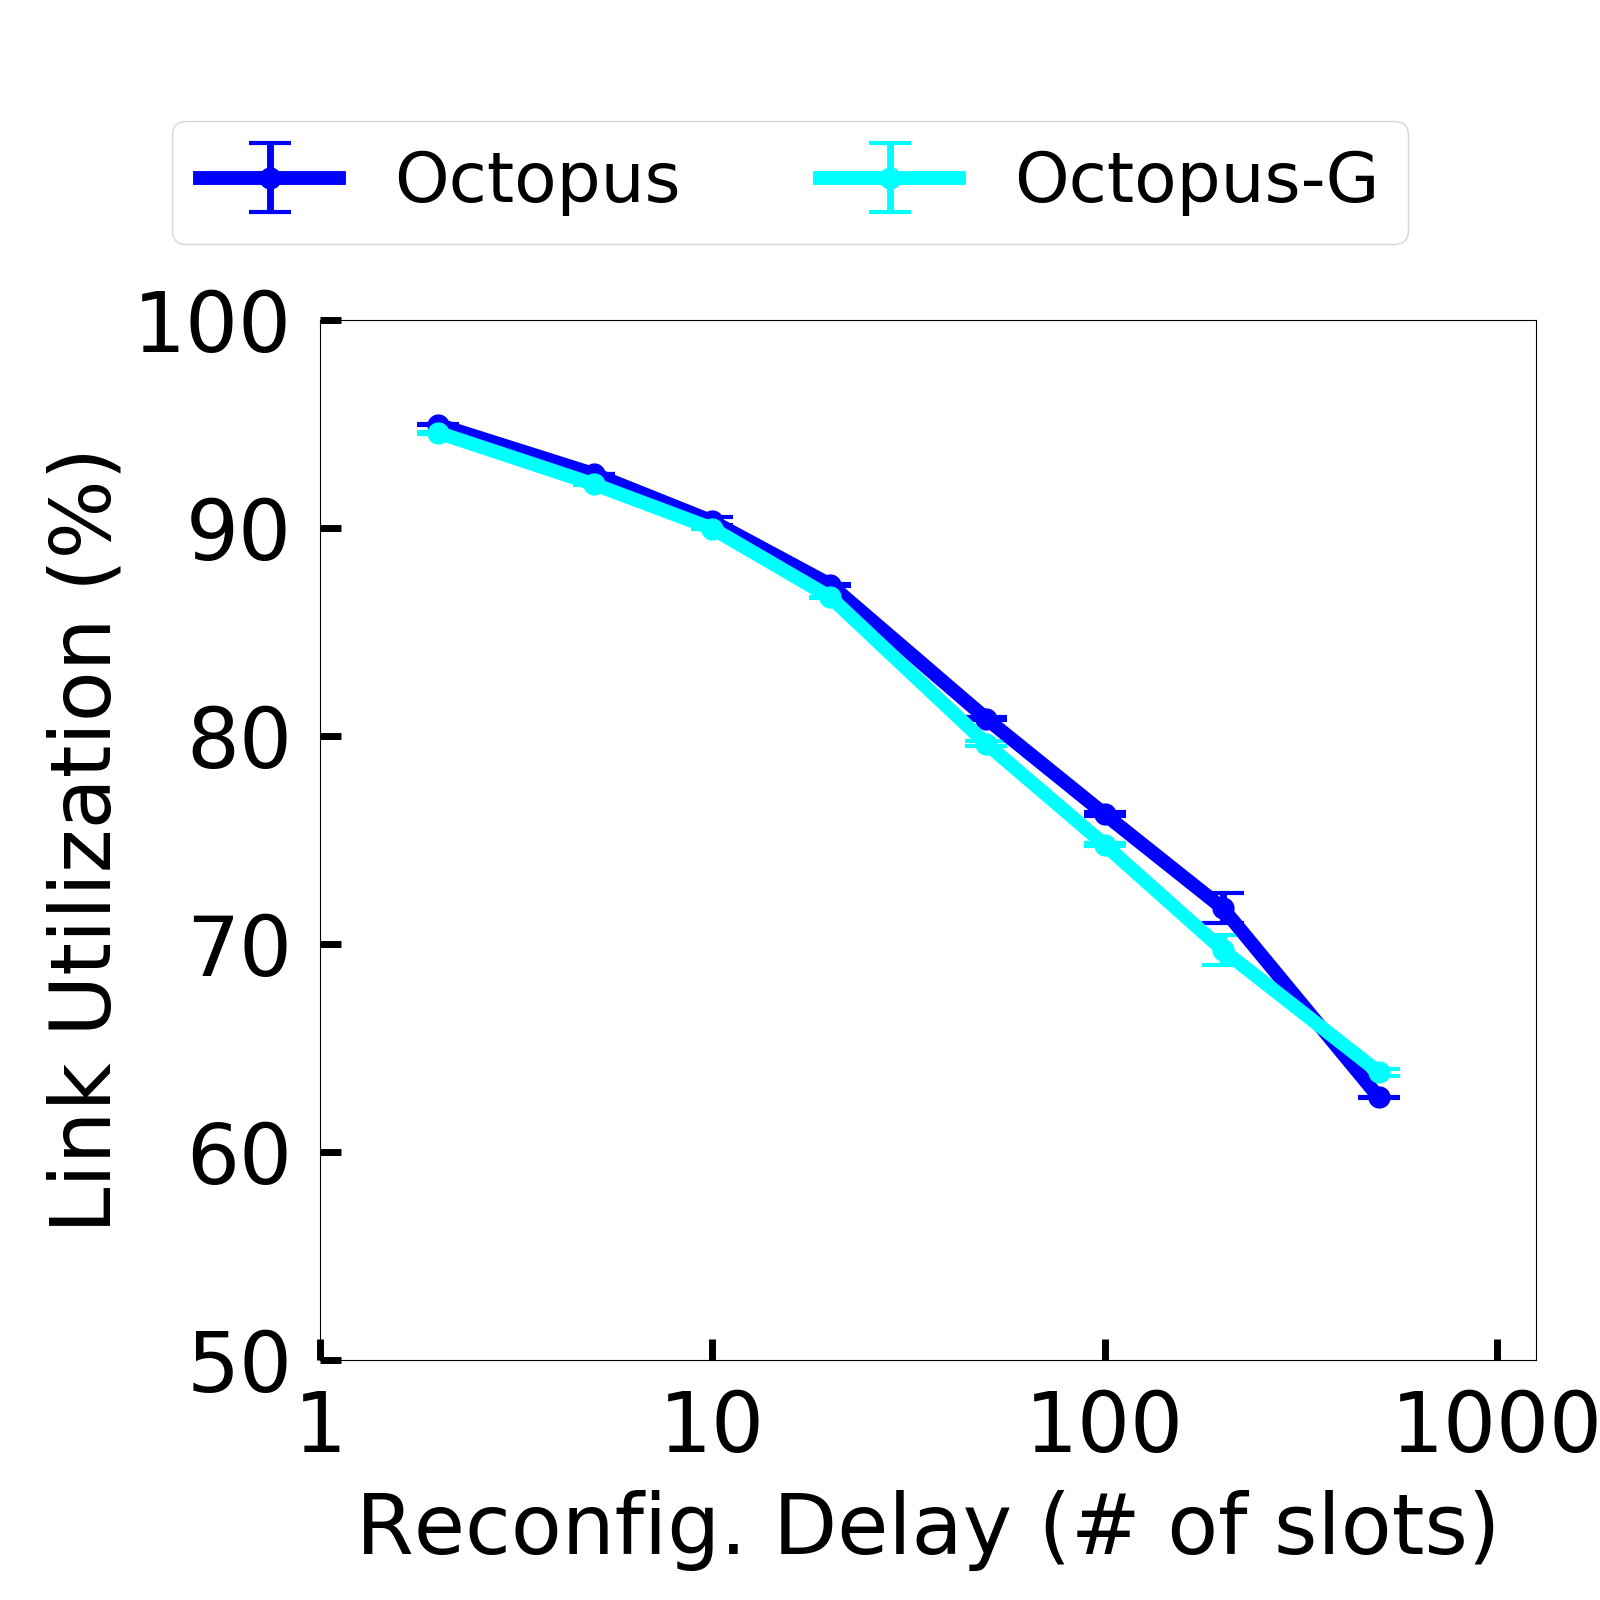
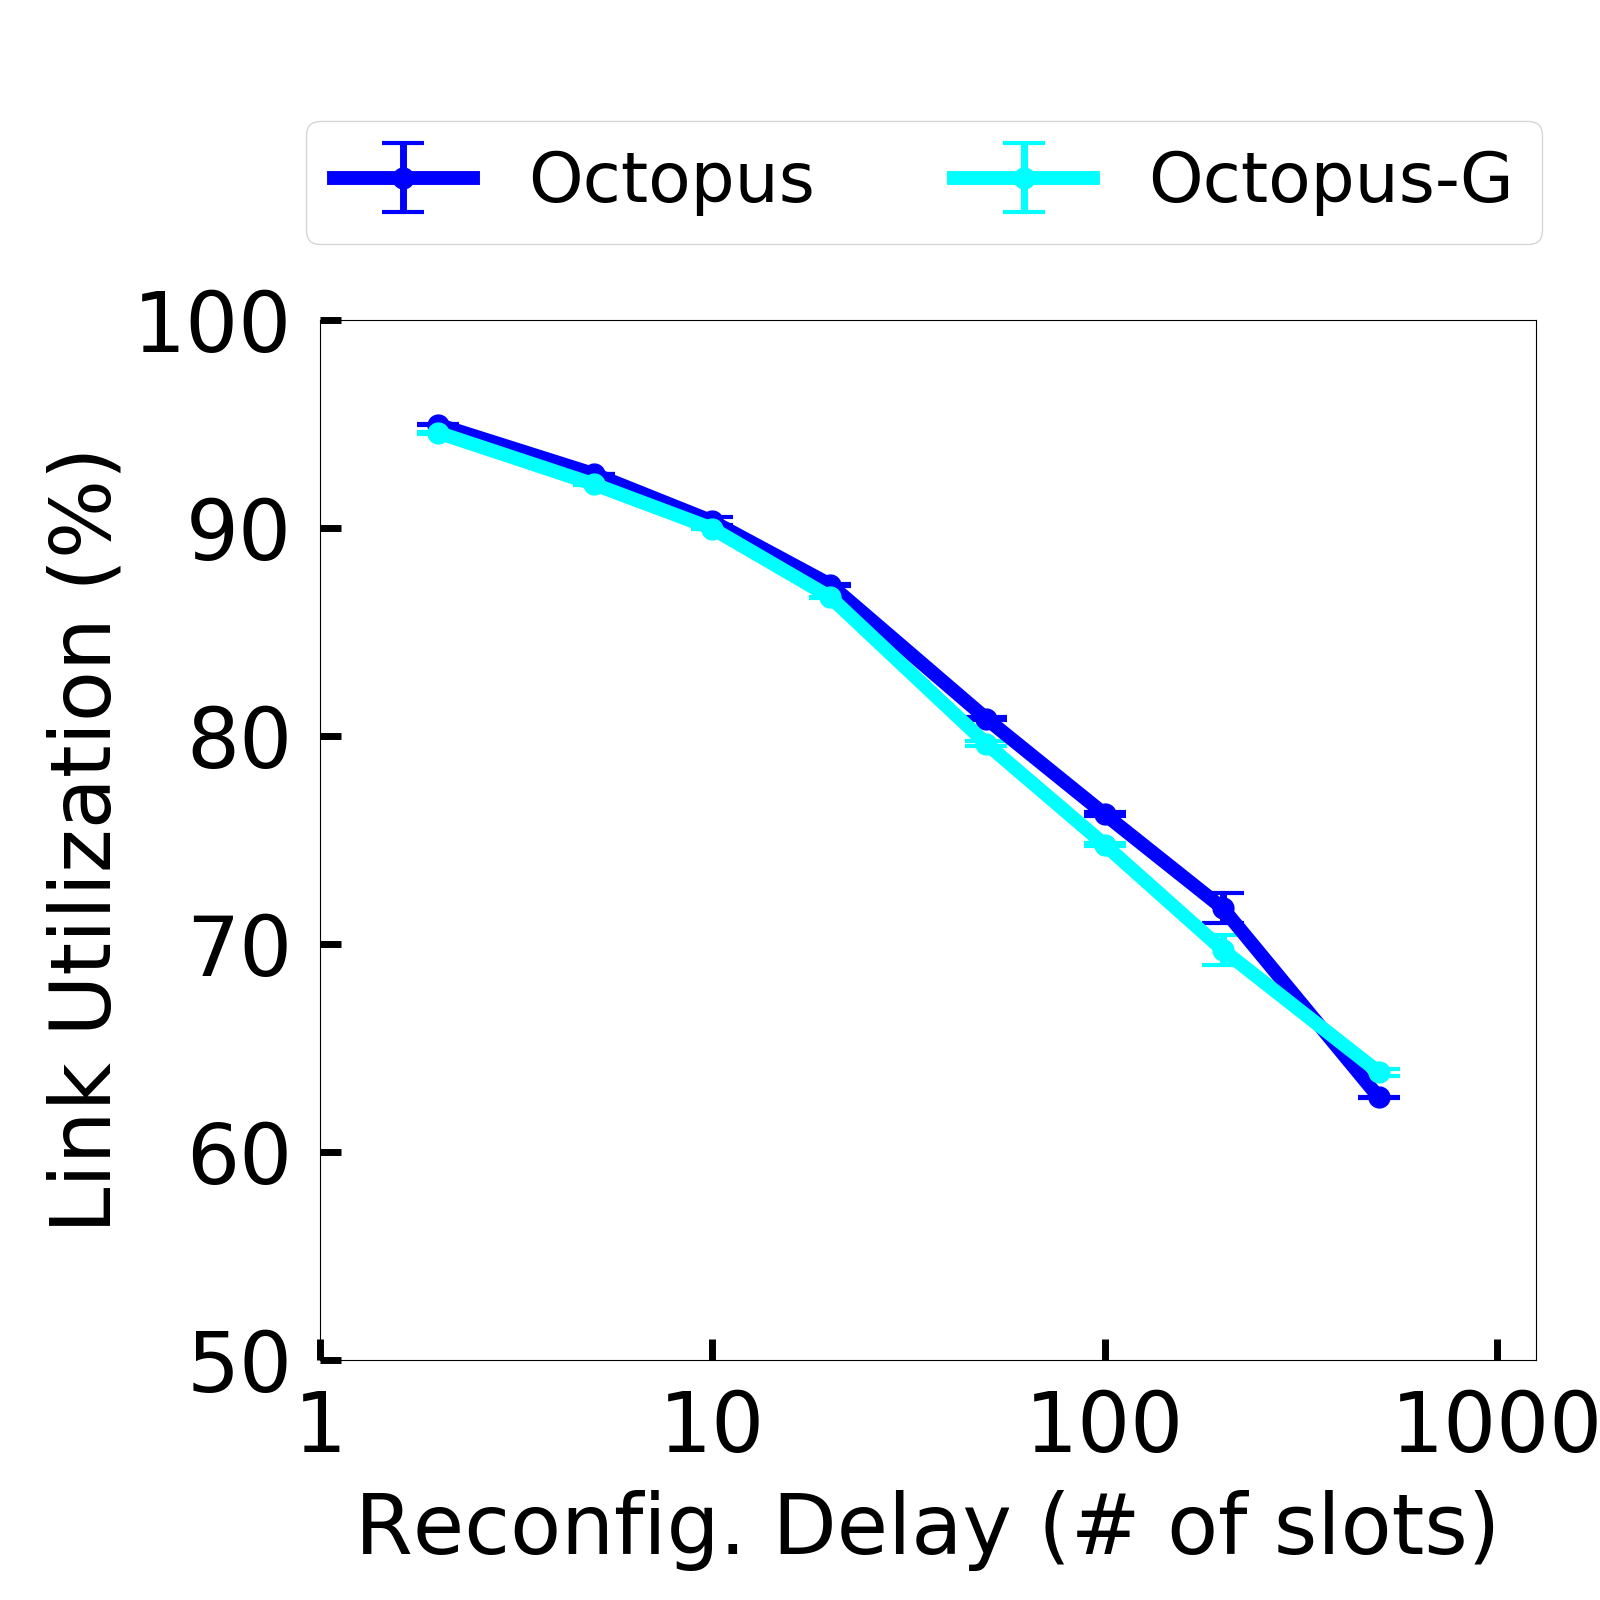
update the plot

diff --git a/plots.py b/plots.py
@@ -162,6 +162,8 @@ def plot_line(table, methods, filename=None, x_label=None, x_log=False, y_label=
 	box_to_anchor = (-0.1, 1.04)
 	if 'Octopus-Random' in methods or 'Octopus' in methods:
 		box_to_anchor = (-0.15, 1.04)
+	if 'Octopus-G' in methods or 'Rotornet' in methods:
+		box_to_anchor = (-0.04, 1.04)
 	
 	plt.ylim([y_min, y_max])
 	plt.legend(bbox_to_anchor=box_to_anchor, loc='lower left', ncol=2, fontsize=50)
